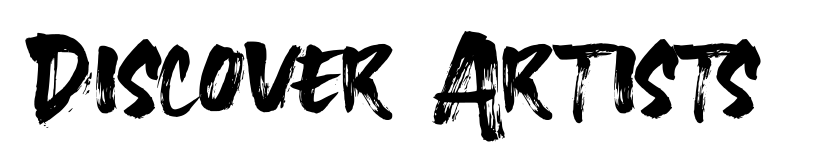
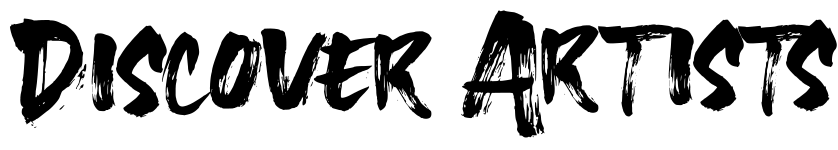
Art quotes section

diff --git a/components/home_sections/FeaturedArtists.js b/components/home_sections/FeaturedArtists.js
@@ -3,7 +3,7 @@ import { View, Text, StyleSheet, Image, ScrollView } from 'react-native';
 import { LinearGradient } from 'expo-linear-gradient';
 
 // Import the header image
-import discoverHeader from '../../assets/headers/Discover.png';
+import discoverHeader from '../../assets/headers/Discover_white.png';
 
 const imagePaths = [
     require('../../assets/artists/artist1.png'),
@@ -55,7 +55,7 @@ const FeaturedArtists = () => {
     const imageChunks = chunkArray(imagePaths, 1); // Chunk into groups of 1 image
 
     return (
-        <LinearGradient colors={['white', '#b5d1ff', 'white']} style={styles.section}>
+        <View style={styles.section}>
             <View style={styles.headerContainer}>
                 <Image source={discoverHeader} style={styles.headerImage} />
             </View>
@@ -74,29 +74,32 @@ const FeaturedArtists = () => {
                     </View>
                 ))}
             </ScrollView>
-        </LinearGradient>
+        </View>
     );
 };
 
 const styles = StyleSheet.create({
     section: {
         marginBottom: 20,
+        paddingBottom: 40,
         // paddingLeft: 10,
-        marginHorizontal: 10,
-        borderRadius: 10,
+        // marginHorizontal: 10,
+        // borderRadius: 10,
         overflow: 'hidden',
+        backgroundColor: '#000',
         // borderWidth: 2,
         // borderColor: '#dee0e3',
     },
     headerContainer: {
         borderRadius: 3,
         paddingVertical: 0,
-        paddingHorizontal: 8,
+        paddingHorizontal: 15,
+        marginTop: 20,
         marginBottom: 10,
         alignSelf: 'flex-start',
     },
     headerImage: {
-        width: 250,
+        width: 200,
         height: 50,
         resizeMode: 'contain',
     },
@@ -119,14 +122,15 @@ const styles = StyleSheet.create({
         width: 100,
         height: 100,
         marginBottom: 2,
-        borderTopLeftRadius: 50,
-        borderTopRightRadius: 50,
-        borderBottomLeftRadius: 15,
-        borderBottomRightRadius: 15,
+        borderTopLeftRadius: 10,
+        borderTopRightRadius: 10,
+        borderBottomLeftRadius: 20,
+        borderBottomRightRadius: 20,
     },
     artistName: {
         fontSize: 11,
         marginTop: 5,
+        color: 'white',
     },
 });
 

diff --git a/components/home_sections/ArtistsPick.js b/components/home_sections/ArtistsPick.js
@@ -1,5 +1,7 @@
 import React from 'react';
 import { View, Text, StyleSheet, Image, ScrollView } from 'react-native';
+import ArtistsPickHeader from '../../assets/headers/Artists_pick.png'; // Import the header image
+import DiscoverButton from '../DiscoverButton';
 
 const imagePaths = [
     { path: require('../../assets/photos/path.jpg'), title: 'Path', artist: 'Artist 1', profilePic: require('../../assets/artists/artist5.png') },
@@ -24,11 +26,9 @@ const ArtistsPick = () => {
     return (
         <View style={styles.section}>
             <View style={styles.headerContainer}>
-                <View style={styles.leftHeader}>
-                    <Text style={styles.header}>Artist's Pick</Text>
-                </View>
+                <Image source={ArtistsPickHeader} style={styles.headerImage} />
                 <View style={styles.rightHeader}>
-                    <Text style={styles.secondaryHeader}>More</Text>
+                    <DiscoverButton />
                 </View>
             </View>
             <ScrollView horizontal style={styles.scrollView}>
@@ -61,29 +61,21 @@ const styles = StyleSheet.create({
         marginBottom: 2,
         alignSelf: 'flex-start',
     },
-    leftHeader: {
-        backgroundColor: 'black',
-        paddingVertical: 5,
-        paddingHorizontal: 10,
-        marginRight: 2,
-        borderTopLeftRadius: 10,
+    headerImage: {
+        width: 200, // Adjust width according to your image
+        height: 50, // Adjust height according to your image
+        resizeMode: 'contain',
     },
-    rightHeader: {
-        backgroundColor: '#B7C9E2',
-        paddingVertical: 10,
-        paddingHorizontal: 17,
-        borderTopRightRadius: 10,
-    },
-    header: {
-        fontSize: 22,
-        fontWeight: 'bold',
-        color: 'white',
-        marginRight: 158,
-    },
-    secondaryHeader: {
-        fontSize: 15,
-        color: 'black',
-    },
+    // rightHeader: {
+    //     backgroundColor: '#B7C9E2',
+    //     paddingVertical: 10,
+    //     paddingHorizontal: 17,
+    //     borderTopRightRadius: 10,
+    // },
+    // secondaryHeader: {
+    //     fontSize: 15,
+    //     color: 'black',
+    // },
     scrollView: {
         flexDirection: 'row',
     },

diff --git a/components/home_sections/ArtQuotes.js b/components/home_sections/ArtQuotes.js
@@ -1,0 +1,47 @@
+import React, { useState, useEffect } from 'react';
+import { View, Text, StyleSheet } from 'react-native';
+
+const ArtQuotes = () => {
+  const [currentQuoteIndex, setCurrentQuoteIndex] = useState(0);
+
+  // List of art quotes
+  const quotes = [
+    "Art washes away from the soul the dust of everyday life. - Pablo Picasso",
+    "Every artist was first an amateur. - Ralph Waldo Emerson",
+    "Art enables us to find ourselves and lose ourselves at the same time. - Thomas Merton",
+    // Add more quotes as needed
+  ];
+
+  useEffect(() => {
+    const interval = setInterval(() => {
+      // Generate a random index for the next quote
+      const randomIndex = Math.floor(Math.random() * quotes.length);
+      setCurrentQuoteIndex(randomIndex);
+    }, 5000); // Change interval as needed (5 seconds)
+
+    return () => clearInterval(interval); // Cleanup on component unmount
+  }, []);
+
+  return (
+    <View style={styles.container}>
+      <Text style={styles.quoteText}>{quotes[currentQuoteIndex]}</Text>
+    </View>
+  );
+};
+
+const styles = StyleSheet.create({
+  container: {
+    flex: 1,
+    justifyContent: 'center',
+    alignItems: 'center',
+    marginBottom: 20, 
+  },
+  quoteText: {
+    fontSize: 15,
+    textAlign: 'left', // Align text to the left
+    fontStyle: 'italic',
+    marginHorizontal: 20,
+  },
+});
+
+export default ArtQuotes;

diff --git a/screens/Home.js b/screens/Home.js
@@ -5,6 +5,7 @@ import LoginButton from '../components/LoginButton';
 import ArtForYou from '../components/home_sections/ArtForYou';
 import FeaturedArtists from '../components/home_sections/FeaturedArtists';
 import ArtistsPick from '../components/home_sections/ArtistsPick';
+import ArtQuotes from '../components/home_sections/ArtQuotes';
 import LongSearchBar from '../components/LongSearchBar';
 
 const HomeScreen = () => {
@@ -15,6 +16,7 @@ const HomeScreen = () => {
       <ScrollView>
         <View style={styles.container}>
         <ArtForYou />
+        <ArtQuotes />
         <FeaturedArtists />
         <ArtistsPick />
         <LoginButton />

diff --git a/components/home_sections/ArtForYou.js b/components/home_sections/ArtForYou.js
@@ -123,7 +123,7 @@ const ArtForYou = () => {
                     ))}
                 </ScrollView>
             </TouchableWithoutFeedback>
-            <View style={styles.horizontalLine}></View>
+            {/* <View style={styles.horizontalLine}></View> */}
         </LinearGradient >
     );
 };
